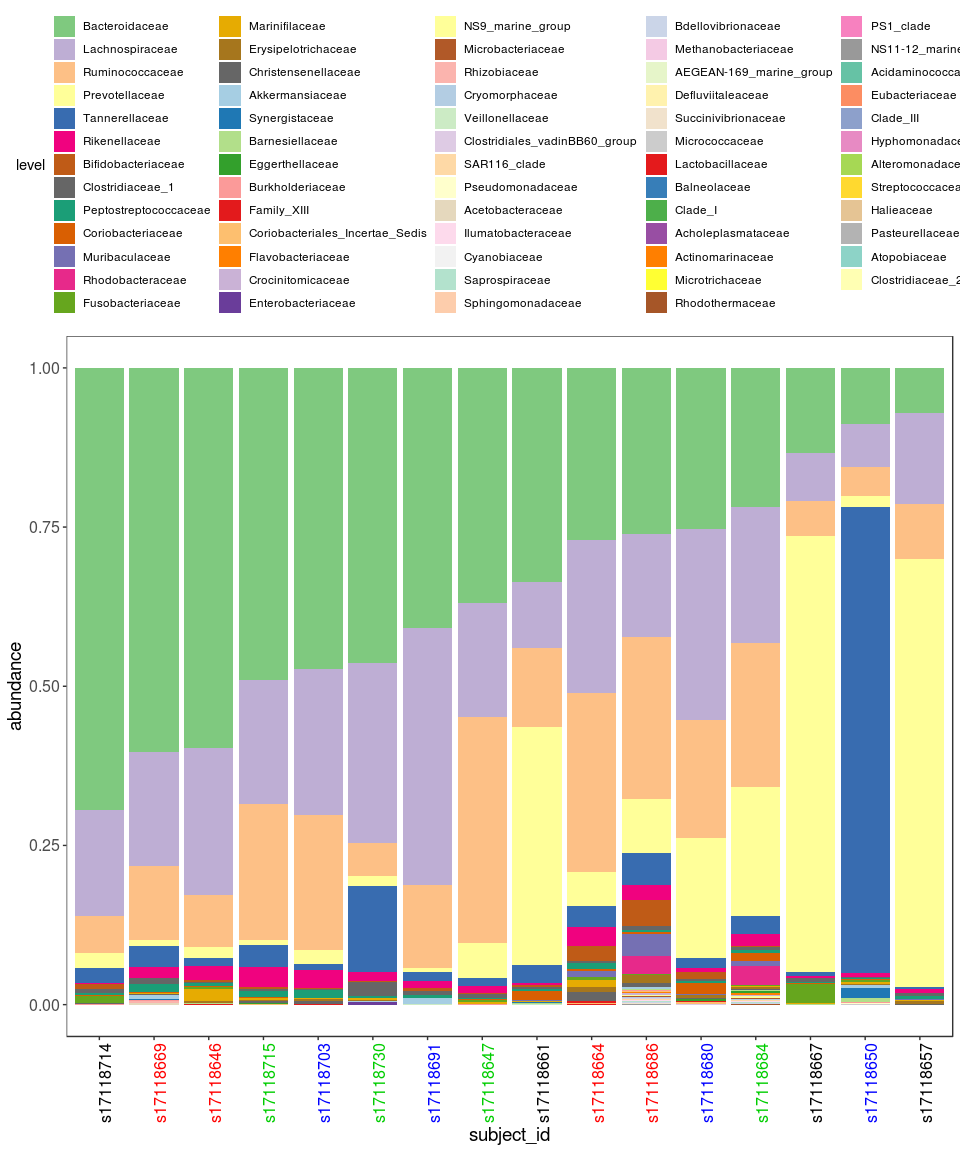
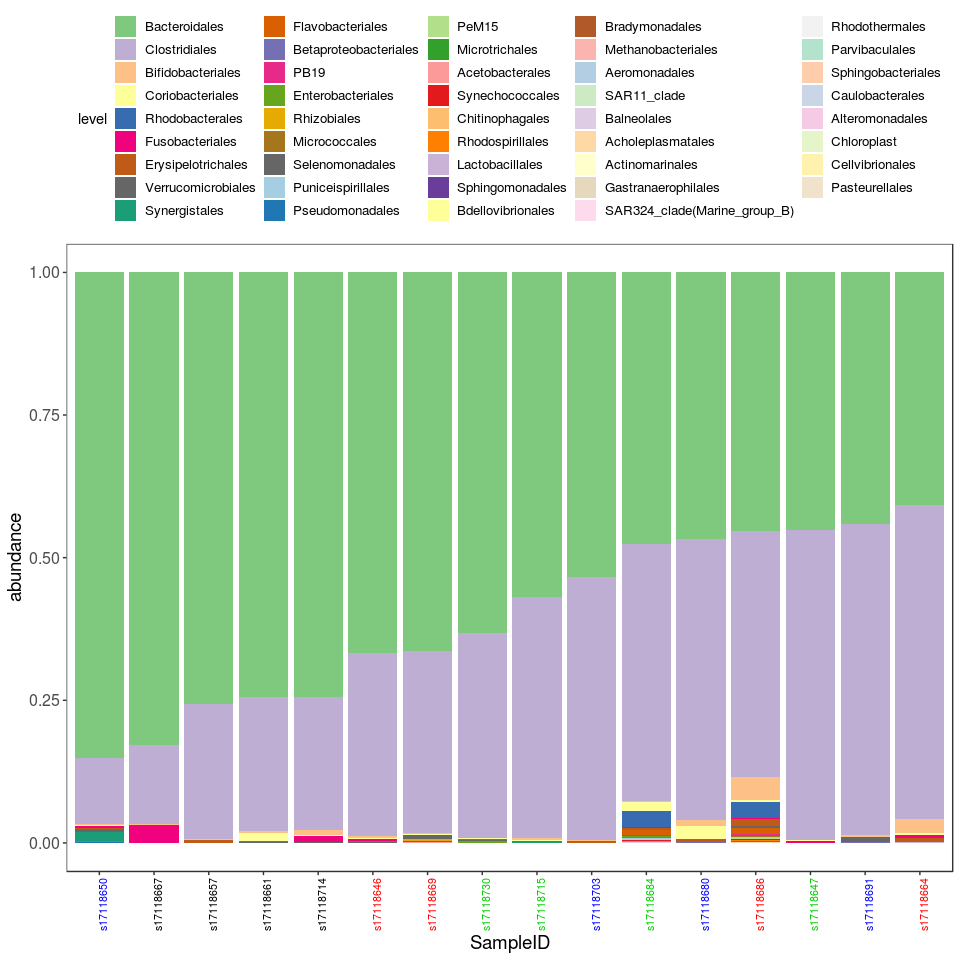
update function name & markdown

diff --git a/README.md b/README.md
@@ -1,4 +1,4 @@
-visualization416S package demo
+visual16S package demo
 ================
 yeguanhua
 
@@ -7,21 +7,22 @@ Install and load package
 
 Note:
 
-You need to run install from the parent working directory that contains the visualization416S folder.
-
-If you are can't install package in R Console, try this: open visualization416S.Rproj first, then use RStudio → Build → Install and Restart.
+You need to run install from the parent working directory that contains the visual16S folder.
 
 ``` r
-devtools::install('visualization416S')
+devtools::install('visual16S')
 ```
 
+#### If you are can't install package in R Console, try this: open visual16S.Rproj first, then use RStudio → Build → Install and Restart.
+
 Load package and demo data.
+===========================
 
 ``` r
 rm(list = ls())
-library(visualization416S)
-demoPhyloseq <- visualization416S::demo_phyloseq_object
-demoDADA2res <- visualization416S::demo_dada2_result
+library(visual16S)
+demo_phyloseq_object <- visual16S::demo_phyloseq_object
+demo_dada2_result <- visual16S::demo_dada2_result
 ```
 
 Data status
@@ -41,32 +42,39 @@ silva\_nr\_v132
 
 Metadata:
 
-| subject\_id | diagnosis         |
-|:------------|:------------------|
-| s17118657   | healthy           |
-| s17118661   | healthy           |
-| s17118667   | healthy           |
-| s17118714   | healthy           |
-| s17118646   | intestinal cancer |
-| s17118664   | intestinal cancer |
-| s17118669   | intestinal cancer |
-| s17118686   | intestinal cancer |
-| s17118647   | liver cancer      |
-| s17118684   | liver cancer      |
-| s17118715   | liver cancer      |
-| s17118730   | liver cancer      |
-| s17118650   | lung cancer       |
-| s17118680   | lung cancer       |
-| s17118691   | lung cancer       |
-| s17118703   | lung cancer       |
+| SampleID  | diagnosis         |
+|:----------|:------------------|
+| s17118657 | healthy           |
+| s17118661 | healthy           |
+| s17118667 | healthy           |
+| s17118714 | healthy           |
+| s17118646 | intestinal cancer |
+| s17118664 | intestinal cancer |
+| s17118669 | intestinal cancer |
+| s17118686 | intestinal cancer |
+| s17118647 | liver cancer      |
+| s17118684 | liver cancer      |
+| s17118715 | liver cancer      |
+| s17118730 | liver cancer      |
+| s17118650 | lung cancer       |
+| s17118680 | lung cancer       |
+| s17118691 | lung cancer       |
+| s17118703 | lung cancer       |
 
-Track reads through DADA2 workflow
-==================================
+DADA2 workflow reads track
+==========================
 
-First use the dada2\_reads\_track function to check reads drop associated with every step in DADA2.
+First use the track\_reads\_dada2 function to check reads drop associated with every step in DADA2.
+
+Note:
+
+You can plot reads track in either absolute abundance or relative abundance.
+
+If the sample size is too large to show on legend, set legend\_position to "none".
 
 ``` r
-visualization416S::dada2_reads_track(demoDADA2res$reads_track, single_end = FALSE)
+track_reads_dada2(demo_dada2_result$reads_track, single_end = FALSE, relative_abundance = TRUE, 
+                  legend_position = "top")
 ```
 
 ![](README_files/figure-markdown_github/reads%20track-1.png)
@@ -74,12 +82,17 @@ visualization416S::dada2_reads_track(demoDADA2res$reads_track, single_end = FALS
 Stacked bar plot of phylogenetic composition
 ============================================
 
-Use stacked\_bar\_plot function to plot the Order level abundance in every sample. You can change the 'level' argument to plot abundance in different level, or change the 'feature' to choose different feature you want to show in x-axis.
+Use plot\_stacked\_bar function to plot the Order level abundance in every sample. You can change the 'level' argument to plot abundance in different level, or change the 'feature' to choose different feature you want to show in x-axis.
 
-### Family level
+Note:
+
+If the legend is too much to show, set legend\_position to "none".
+
+### Order level
 
 ``` r
-visualization416S::stacked_bar_plot(phyloseq = demoPhyloseq, level = "Family", feature = "diagnosis")
+plot_stacked_bar(phyloseq = demo_phyloseq_object, level = "Order", feature = "diagnosis", 
+                 x_size = 8, legend_position = "top", legend_size = 10)
 ```
 
 ![](README_files/figure-markdown_github/Stacked%20bar%20plot-1.png)
@@ -87,13 +100,13 @@ visualization416S::stacked_bar_plot(phyloseq = demoPhyloseq, level = "Family", f
 Alpha diversity
 ===============
 
-Use alpha\_diversity\_plot to plot alpha diversity. Change 'measures' argument to use different measurement.
+Use plot\_alpha\_diversity to plot alpha diversity. Change 'measures' argument to use different measurement.
 
 ### Chao1
 
 ``` r
-visualization416S::alpha_diversity_plot(phyloseq = demoPhyloseq, feature = "diagnosis", measures = "Chao1", 
-                           p_test = "kruskal")
+plot_alpha_diversity(phyloseq = demo_phyloseq_object, feature = "diagnosis", feature2 = NA, 
+                     measures = "Chao1", p_test = "kruskal")
 ```
 
 ![](README_files/figure-markdown_github/Chao1-1.png)
@@ -101,12 +114,13 @@ visualization416S::alpha_diversity_plot(phyloseq = demoPhyloseq, feature = "diag
 Beta diversity
 ==============
 
-Use beta\_diversity\_plot to plot beta diversity. Change method to draw different beta diversity plot.
+Use plot\_beta\_diversity to plot beta diversity. Change 'method' to draw different beta diversity plot.
 
 ### Bray-Curtis
 
 ``` r
-visualization416S::beta_diversity_plot(phyloseq = demoPhyloseq, feature = "diagnosis", method = "bray")
+plot_beta_diversity(phyloseq = demo_phyloseq_object, feature = "diagnosis", feature2 = NA, 
+                    method = "bray")
 ```
 
 ![](README_files/figure-markdown_github/Bray-Curtis-1.png)
@@ -117,7 +131,7 @@ Log2 fold change
 Use log2fc function to show differential analysis result.
 
 ``` r
-visualization416S::log2fc(phyloseq = demoPhyloseq, feature = "diagnosis", level = NA, p_value = 0.05)
+log2fc(phyloseq = demo_phyloseq_object, feature = "diagnosis", level = NA, p_value = 0.05)
 ```
 
     ## [1] "log2 fold change (MLE): diagnosis lung.cancer vs healthy"
